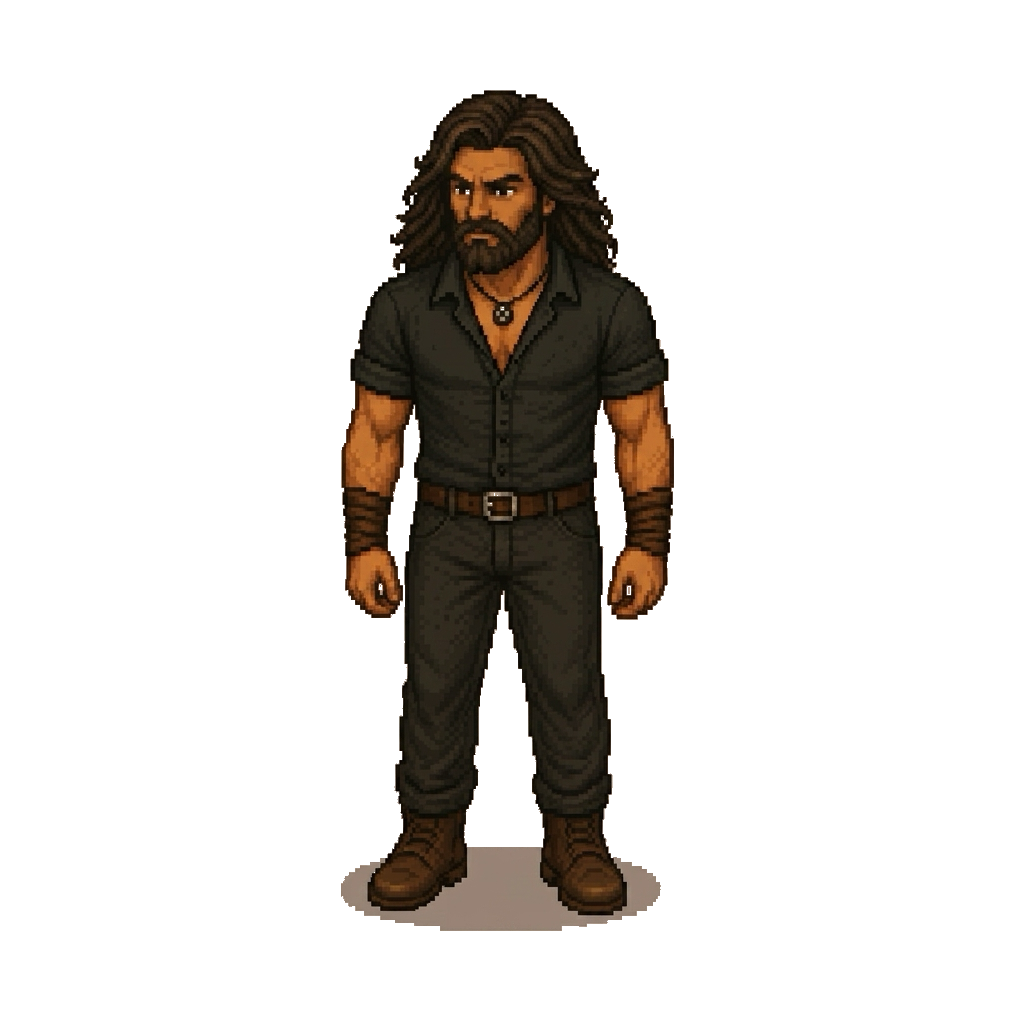
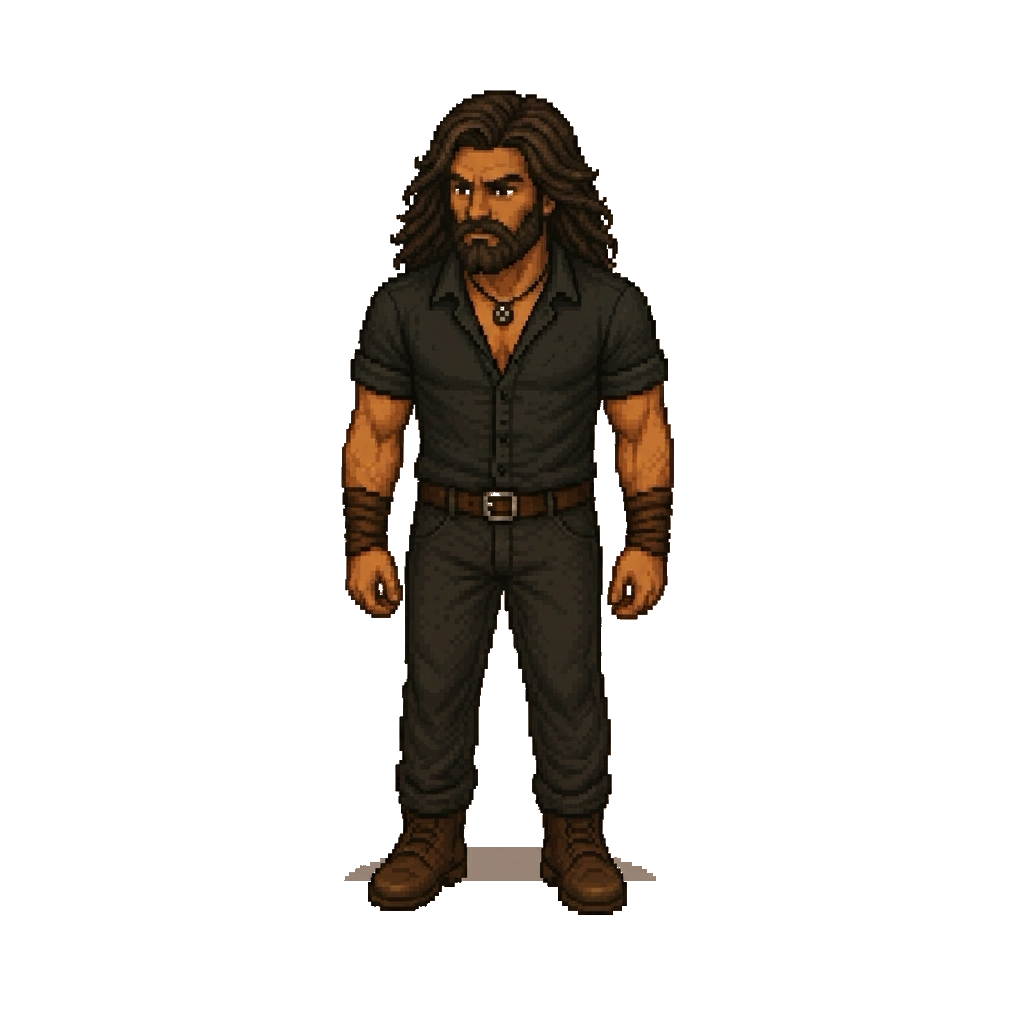
Add Mughal guard NPC with dialogue, clean player sprite shadow, and fix walking dynamics

Changed region(s): [[0.3125, 0.8438, 0.6562, 0.9062]]

diff --git a/frontend/app/play/mughal/page.tsx b/frontend/app/play/mughal/page.tsx
@@ -8,57 +8,94 @@ export default function MughalGameScreen() {
   const [isLoading, setIsLoading] = useState(true);
   const [playerPos, setPlayerPos] = useState({ x: 50, y: 82 });
   const [facingLeft, setFacingLeft] = useState(false);
-  const [isMoving, setIsMoving] = useState(false);
+  const [isWalking, setIsWalking] = useState(false);
+  const [walkPhase, setWalkPhase] = useState(0);
+  const [showDialogue, setShowDialogue] = useState(false);
   const router = useRouter();
 
+  // Guard NPC Position (Left of the arched entrance gate)
+  const guardPos = { x: 44.5, y: 55.5 };
+
+  // Calculate distance to guard for interaction prompt
+  const distToGuard = Math.sqrt(
+    Math.pow(playerPos.x - guardPos.x, 2) + Math.pow(playerPos.y - guardPos.y, 2)
+  );
+  const isNearGuard = distToGuard < 11;
+
   useEffect(() => {
-    // Simulate a loading time to show the immersive loading screen
+    // Simulate loading screen
     const timer = setTimeout(() => {
       setIsLoading(false);
     }, 2500);
     return () => clearTimeout(timer);
   }, []);
 
+  // Smooth continuous 60fps movement game loop
   useEffect(() => {
     if (isLoading) return;
 
-    const handleKeyDown = (e: KeyboardEvent) => {
-      const step = 2.0;
-      setPlayerPos((prev) => {
-        let newX = prev.x;
-        let newY = prev.y;
+    const keysHeld = new Set<string>();
 
-        if (e.key === "ArrowLeft" || e.key === "a" || e.key === "A") {
-          newX = Math.max(38, prev.x - step);
-          setFacingLeft(true);
-          setIsMoving(true);
-        } else if (e.key === "ArrowRight" || e.key === "d" || e.key === "D") {
-          newX = Math.min(62, prev.x + step);
-          setFacingLeft(false);
-          setIsMoving(true);
-        } else if (e.key === "ArrowUp" || e.key === "w" || e.key === "W") {
-          newY = Math.max(54, prev.y - step);
-          setIsMoving(true);
-        } else if (e.key === "ArrowDown" || e.key === "s" || e.key === "S") {
-          newY = Math.min(92, prev.y + step);
-          setIsMoving(true);
-        }
-
-        return { x: newX, y: newY };
-      });
+    const onKeyDown = (e: KeyboardEvent) => {
+      keysHeld.add(e.key.toLowerCase());
+      if (e.key.toLowerCase() === "e" && isNearGuard) {
+        setShowDialogue((prev) => !prev);
+      }
     };
 
-    const handleKeyUp = () => {
-      setIsMoving(false);
+    const onKeyUp = (e: KeyboardEvent) => {
+      keysHeld.delete(e.key.toLowerCase());
     };
 
-    window.addEventListener("keydown", handleKeyDown);
-    window.addEventListener("keyup", handleKeyUp);
+    window.addEventListener("keydown", onKeyDown);
+    window.addEventListener("keyup", onKeyUp);
+
+    let animationFrameId: number;
+    let localWalkTimer = 0;
+
+    const gameLoop = () => {
+      let dx = 0;
+      let dy = 0;
+      const speed = 0.35; // Smooth movement speed per frame
+
+      if (keysHeld.has("arrowleft") || keysHeld.has("a")) dx -= speed;
+      if (keysHeld.has("arrowright") || keysHeld.has("d")) dx += speed;
+      if (keysHeld.has("arrowup") || keysHeld.has("w")) dy -= speed * 0.85;
+      if (keysHeld.has("arrowdown") || keysHeld.has("s")) dy += speed * 0.85;
+
+      const moving = dx !== 0 || dy !== 0;
+      setIsWalking(moving);
+
+      if (dx < 0) setFacingLeft(true);
+      if (dx > 0) setFacingLeft(false);
+
+      if (moving) {
+        localWalkTimer += 0.25;
+        setWalkPhase(localWalkTimer);
+
+        setPlayerPos((prev) => {
+          // Dynamic bridge width: narrower towards gate (y: 54), wider towards bottom (y: 92)
+          const rampProgress = (prev.y - 54) / (92 - 54); // 0 at gate, 1 at bottom
+          const minX = 40 - rampProgress * 3;
+          const maxX = 60 + rampProgress * 3;
+
+          const nextX = Math.max(minX, Math.min(maxX, prev.x + dx));
+          const nextY = Math.max(54, Math.min(92, prev.y + dy));
+          return { x: nextX, y: nextY };
+        });
+      }
+
+      animationFrameId = requestAnimationFrame(gameLoop);
+    };
+
+    animationFrameId = requestAnimationFrame(gameLoop);
+
     return () => {
-      window.removeEventListener("keydown", handleKeyDown);
-      window.removeEventListener("keyup", handleKeyUp);
+      window.removeEventListener("keydown", onKeyDown);
+      window.removeEventListener("keyup", onKeyUp);
+      cancelAnimationFrame(animationFrameId);
     };
-  }, [isLoading]);
+  }, [isLoading, isNearGuard]);
 
   if (isLoading) {
     return (
@@ -78,6 +115,11 @@ export default function MughalGameScreen() {
     );
   }
 
+  // Perspective scale: scale slightly down when further away near gate
+  const depthScale = 0.85 + ((playerPos.y - 54) / 38) * 0.22;
+  const walkBob = isWalking ? Math.sin(walkPhase) * 2.0 : 0;
+  const walkSway = isWalking ? Math.sin(walkPhase * 0.5) * 1.8 : 0;
+
   return (
     <div className="w-full h-screen relative overflow-hidden font-sans select-none bg-black">
       
@@ -88,29 +130,99 @@ export default function MughalGameScreen() {
         className="absolute inset-0 w-full h-full object-cover object-center pointer-events-none"
       />
 
-      {/* Screen Darkening/Vignette Overlay (subtle to match reference aesthetic) */}
+      {/* Screen Darkening/Vignette Overlay */}
       <div className="absolute inset-0 bg-gradient-to-b from-black/20 via-transparent to-black/30 pointer-events-none"></div>
 
-      {/* Main Guy Player Character Sprite */}
-      <div 
-        className="absolute transition-all duration-100 ease-out pointer-events-none flex flex-col items-center z-10"
+      {/* --- MUGHAL ROYAL GUARD NPC (Near Entrance Gate) --- */}
+      <div
+        className="absolute pointer-events-auto cursor-pointer z-10 flex flex-col items-center"
         style={{
-          left: `${playerPos.x}%`,
-          top: `${playerPos.y}%`,
-          transform: `translate(-50%, -100%) scaleX(${facingLeft ? -1 : 1})`,
+          left: `${guardPos.x}%`,
+          top: `${guardPos.y}%`,
+          transform: `translate(-50%, -96%) scale(0.88)`,
         }}
+        onClick={() => setShowDialogue((prev) => !prev)}
       >
-        {/* Foot Shadow */}
-        <div className="absolute bottom-1 w-12 h-3 bg-black/40 rounded-full blur-[1px]"></div>
+        {/* Guard Proximity Indicator / Speech Bubble */}
+        {isNearGuard && !showDialogue && (
+          <div className="animate-bounce mb-2 bg-[#fff9ea] border-2 border-black rounded-lg px-2.5 py-1 shadow-[2px_2px_0_0_rgba(0,0,0,1)] text-[11px] font-bold text-black flex items-center gap-1.5 whitespace-nowrap">
+            <span className="bg-amber-400 border border-black rounded px-1 text-[9px]">E</span>
+            Talk to Royal Guard
+          </div>
+        )}
 
-        {/* Character Sprite Image */}
-        <img 
-          src="/player.png" 
-          alt="Main Hero" 
-          className={`w-28 h-28 object-contain drop-shadow-md ${isMoving ? "animate-bounce" : ""}`}
+        {/* Foot Shadow */}
+        <div className="absolute bottom-1 w-10 h-2.5 bg-black/45 rounded-full blur-[1px]"></div>
+
+        {/* Guard Sprite */}
+        <img
+          src="/guard.png"
+          alt="Mughal Guard NPC"
+          className="w-24 h-24 object-contain drop-shadow-md"
           style={{ imageRendering: "pixelated" }}
         />
       </div>
+
+      {/* --- MAIN GUY PLAYER CHARACTER SPRITE --- */}
+      <div 
+        className="absolute pointer-events-none flex flex-col items-center z-20"
+        style={{
+          left: `${playerPos.x}%`,
+          top: `${playerPos.y}%`,
+          transform: `translate(-50%, -98%) scale(${depthScale}) scaleX(${facingLeft ? -1 : 1})`,
+        }}
+      >
+        {/* Soft Dynamic Foot Shadow (No grey background artifacts) */}
+        <div className="absolute bottom-1 w-11 h-2.5 bg-black/40 rounded-full blur-[1px]"></div>
+
+        {/* Character Sprite Image with smooth footstep cadence */}
+        <img 
+          src="/player.png" 
+          alt="Main Hero" 
+          className="w-28 h-28 object-contain"
+          style={{
+            imageRendering: "pixelated",
+            transform: `translateY(${walkBob}px) rotate(${walkSway}deg)`,
+            transition: isWalking ? "none" : "transform 0.15s ease-out",
+          }}
+        />
+      </div>
+
+      {/* --- GUARD DIALOGUE MODAL --- */}
+      {showDialogue && (
+        <div className="absolute inset-0 bg-black/40 backdrop-blur-xs flex items-end justify-center pb-24 z-30 pointer-events-auto">
+          <div className="bg-[#fff9ea] border-3 border-black rounded-xl p-5 shadow-[6px_6px_0_0_rgba(0,0,0,1)] max-w-xl w-full mx-4 flex gap-4 items-start relative animate-in fade-in zoom-in-95 duration-150">
+            {/* Guard Avatar */}
+            <div className="w-16 h-16 bg-amber-100 border-2 border-black rounded-lg overflow-hidden shrink-0 flex items-center justify-center shadow-[2px_2px_0_0_rgba(0,0,0,1)]">
+              <img src="/guard.png" alt="Guard Avatar" className="w-24 h-24 object-contain translate-y-3" style={{ imageRendering: "pixelated" }} />
+            </div>
+
+            {/* Dialogue Content */}
+            <div className="flex-1">
+              <div className="flex items-center justify-between mb-1">
+                <span className="text-[11px] font-bold text-amber-800 tracking-wider uppercase">Amar Singh Gate Sentry</span>
+                <button 
+                  onClick={() => setShowDialogue(false)}
+                  className="text-gray-500 hover:text-black font-bold text-xs"
+                >
+                  ✕ Close (Esc)
+                </button>
+              </div>
+              <p className="text-black font-semibold text-[13px] leading-relaxed mb-3">
+                &ldquo;Halt, traveler! Beyond this Amar Singh Gate lies the imperial court of the Great Mughal. You speak of your missing companion? A figure matching that description was escorted past the inner ramparts earlier at dawn...&rdquo;
+              </p>
+              <div className="flex gap-2">
+                <button 
+                  onClick={() => setShowDialogue(false)}
+                  className="bg-amber-400 hover:bg-amber-300 border-2 border-black rounded-md px-3 py-1 text-xs font-bold text-black shadow-[2px_2px_0_0_rgba(0,0,0,1)] active:translate-y-0.5"
+                >
+                  &ldquo;Thank you, guard. I must enter.&rdquo;
+                </button>
+              </div>
+            </div>
+          </div>
+        </div>
+      )}
 
       {/* --- UI OVERLAYS (Light Neo-Brutalism) --- */}
       
